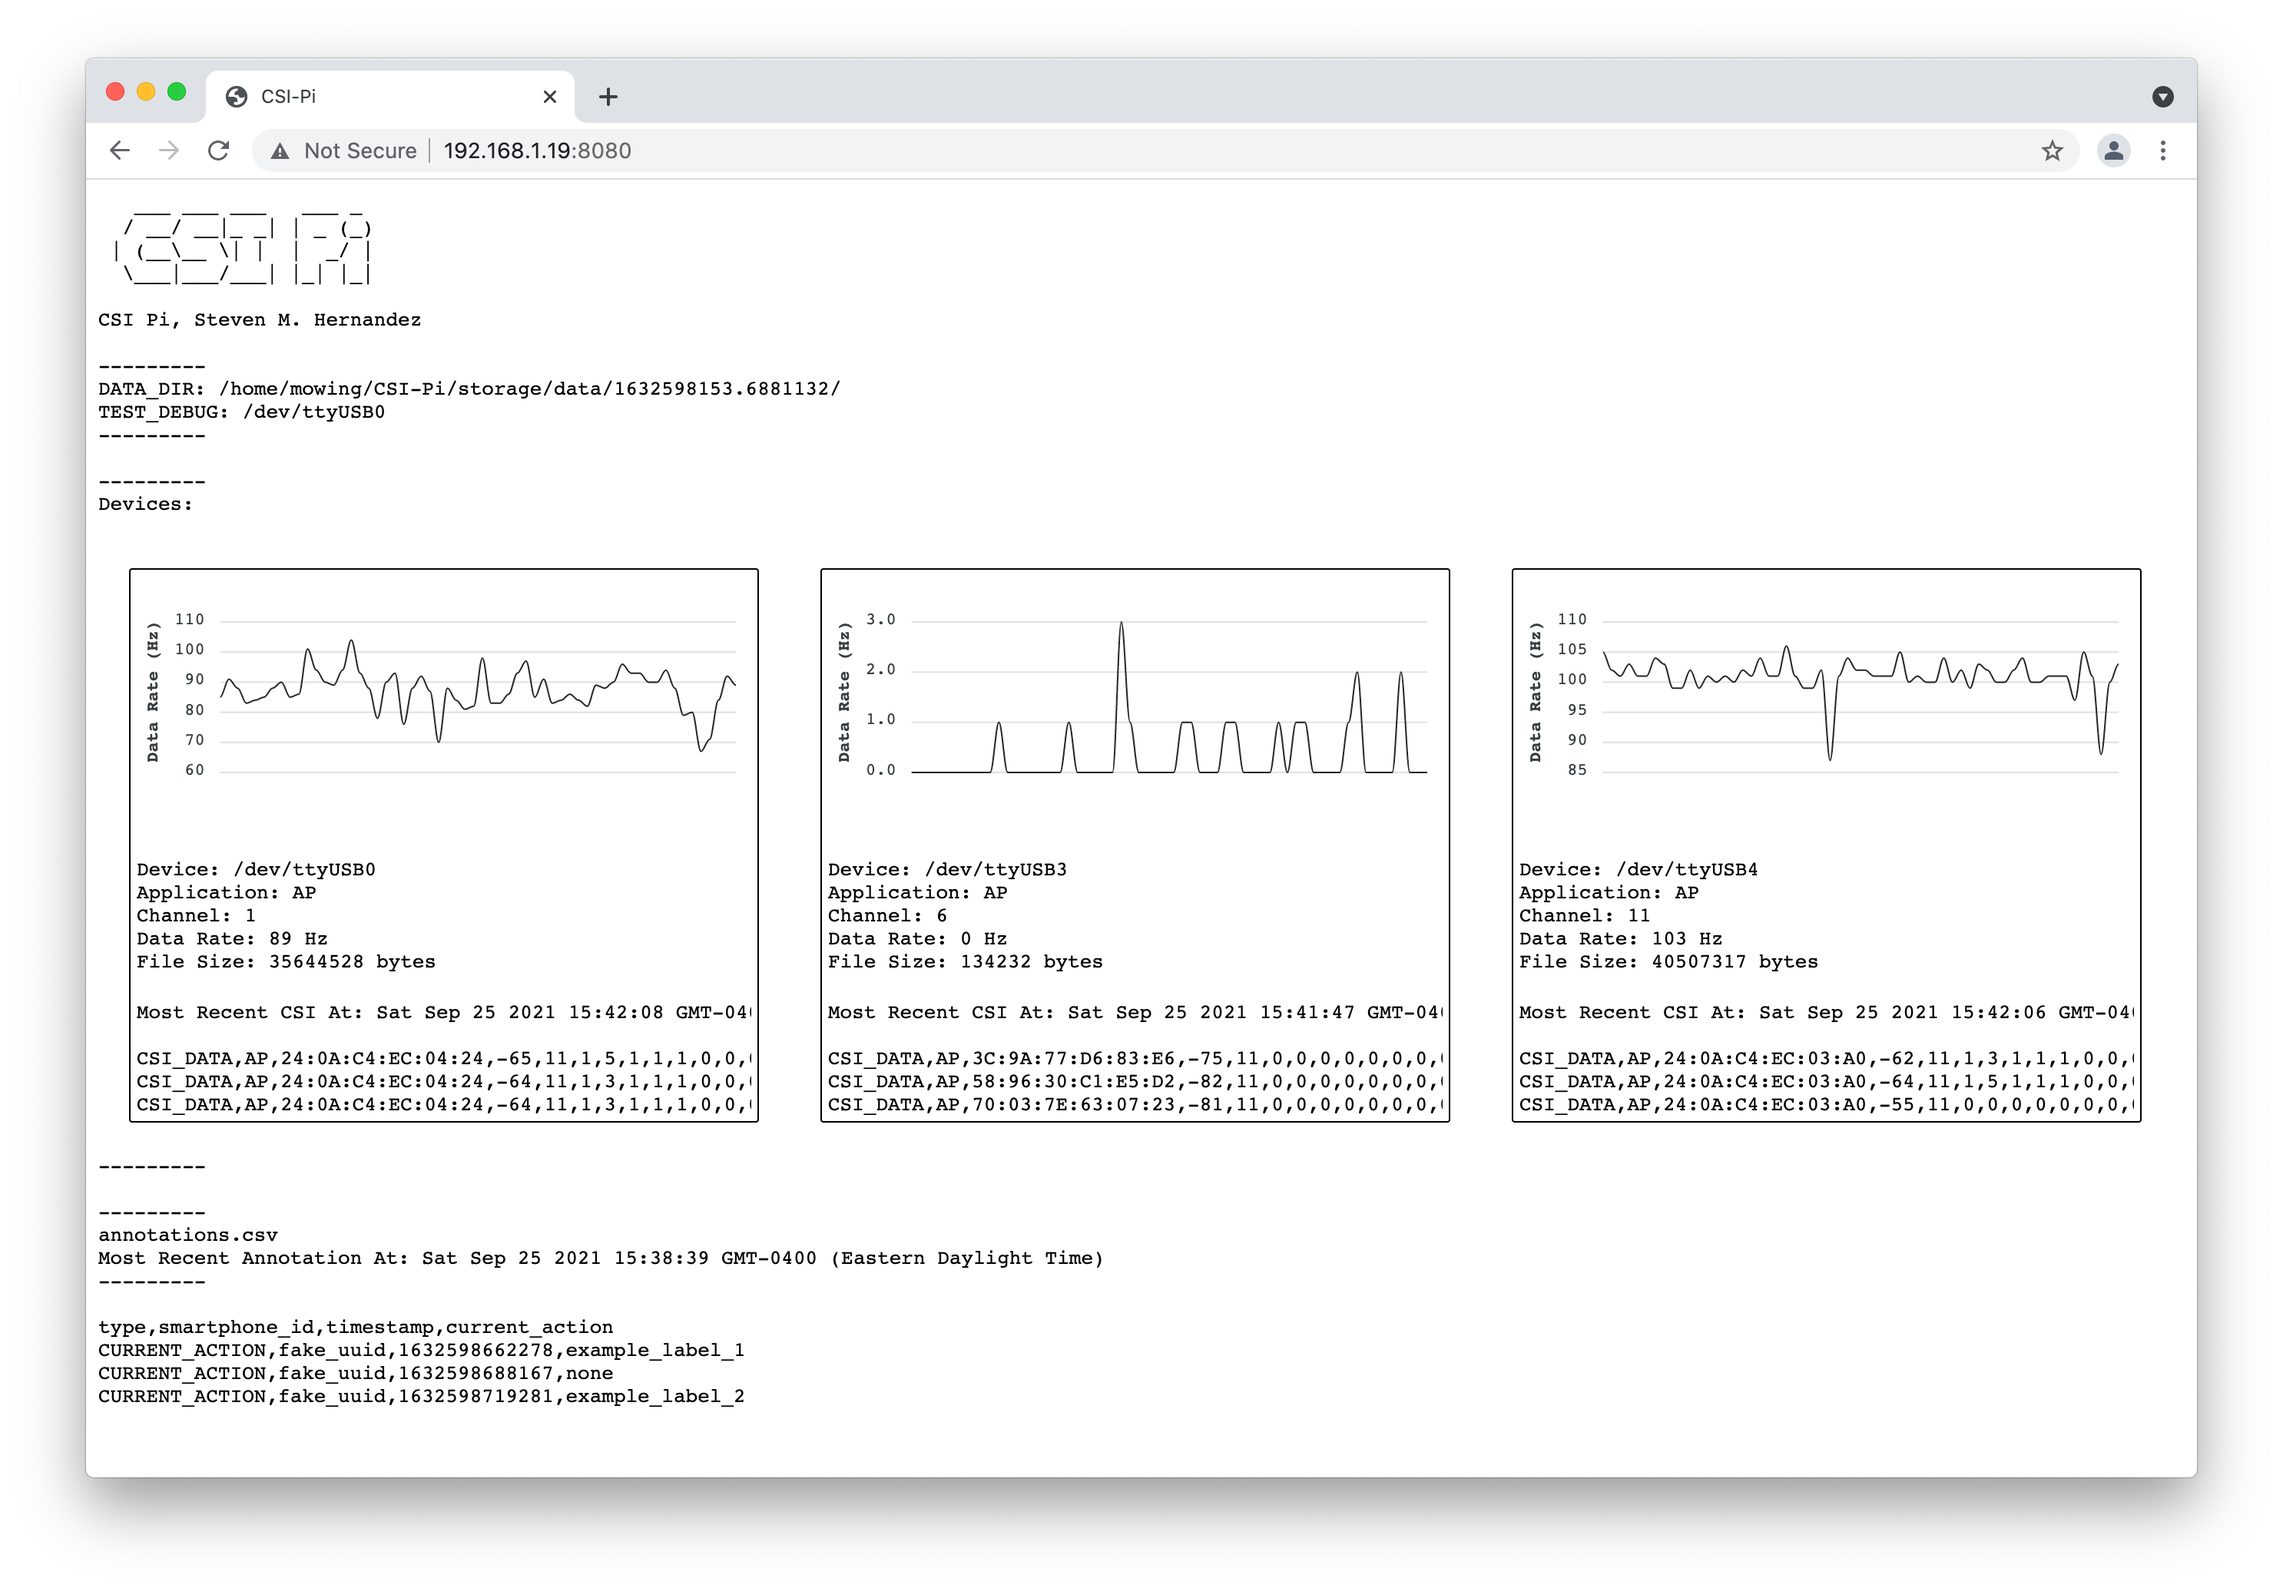
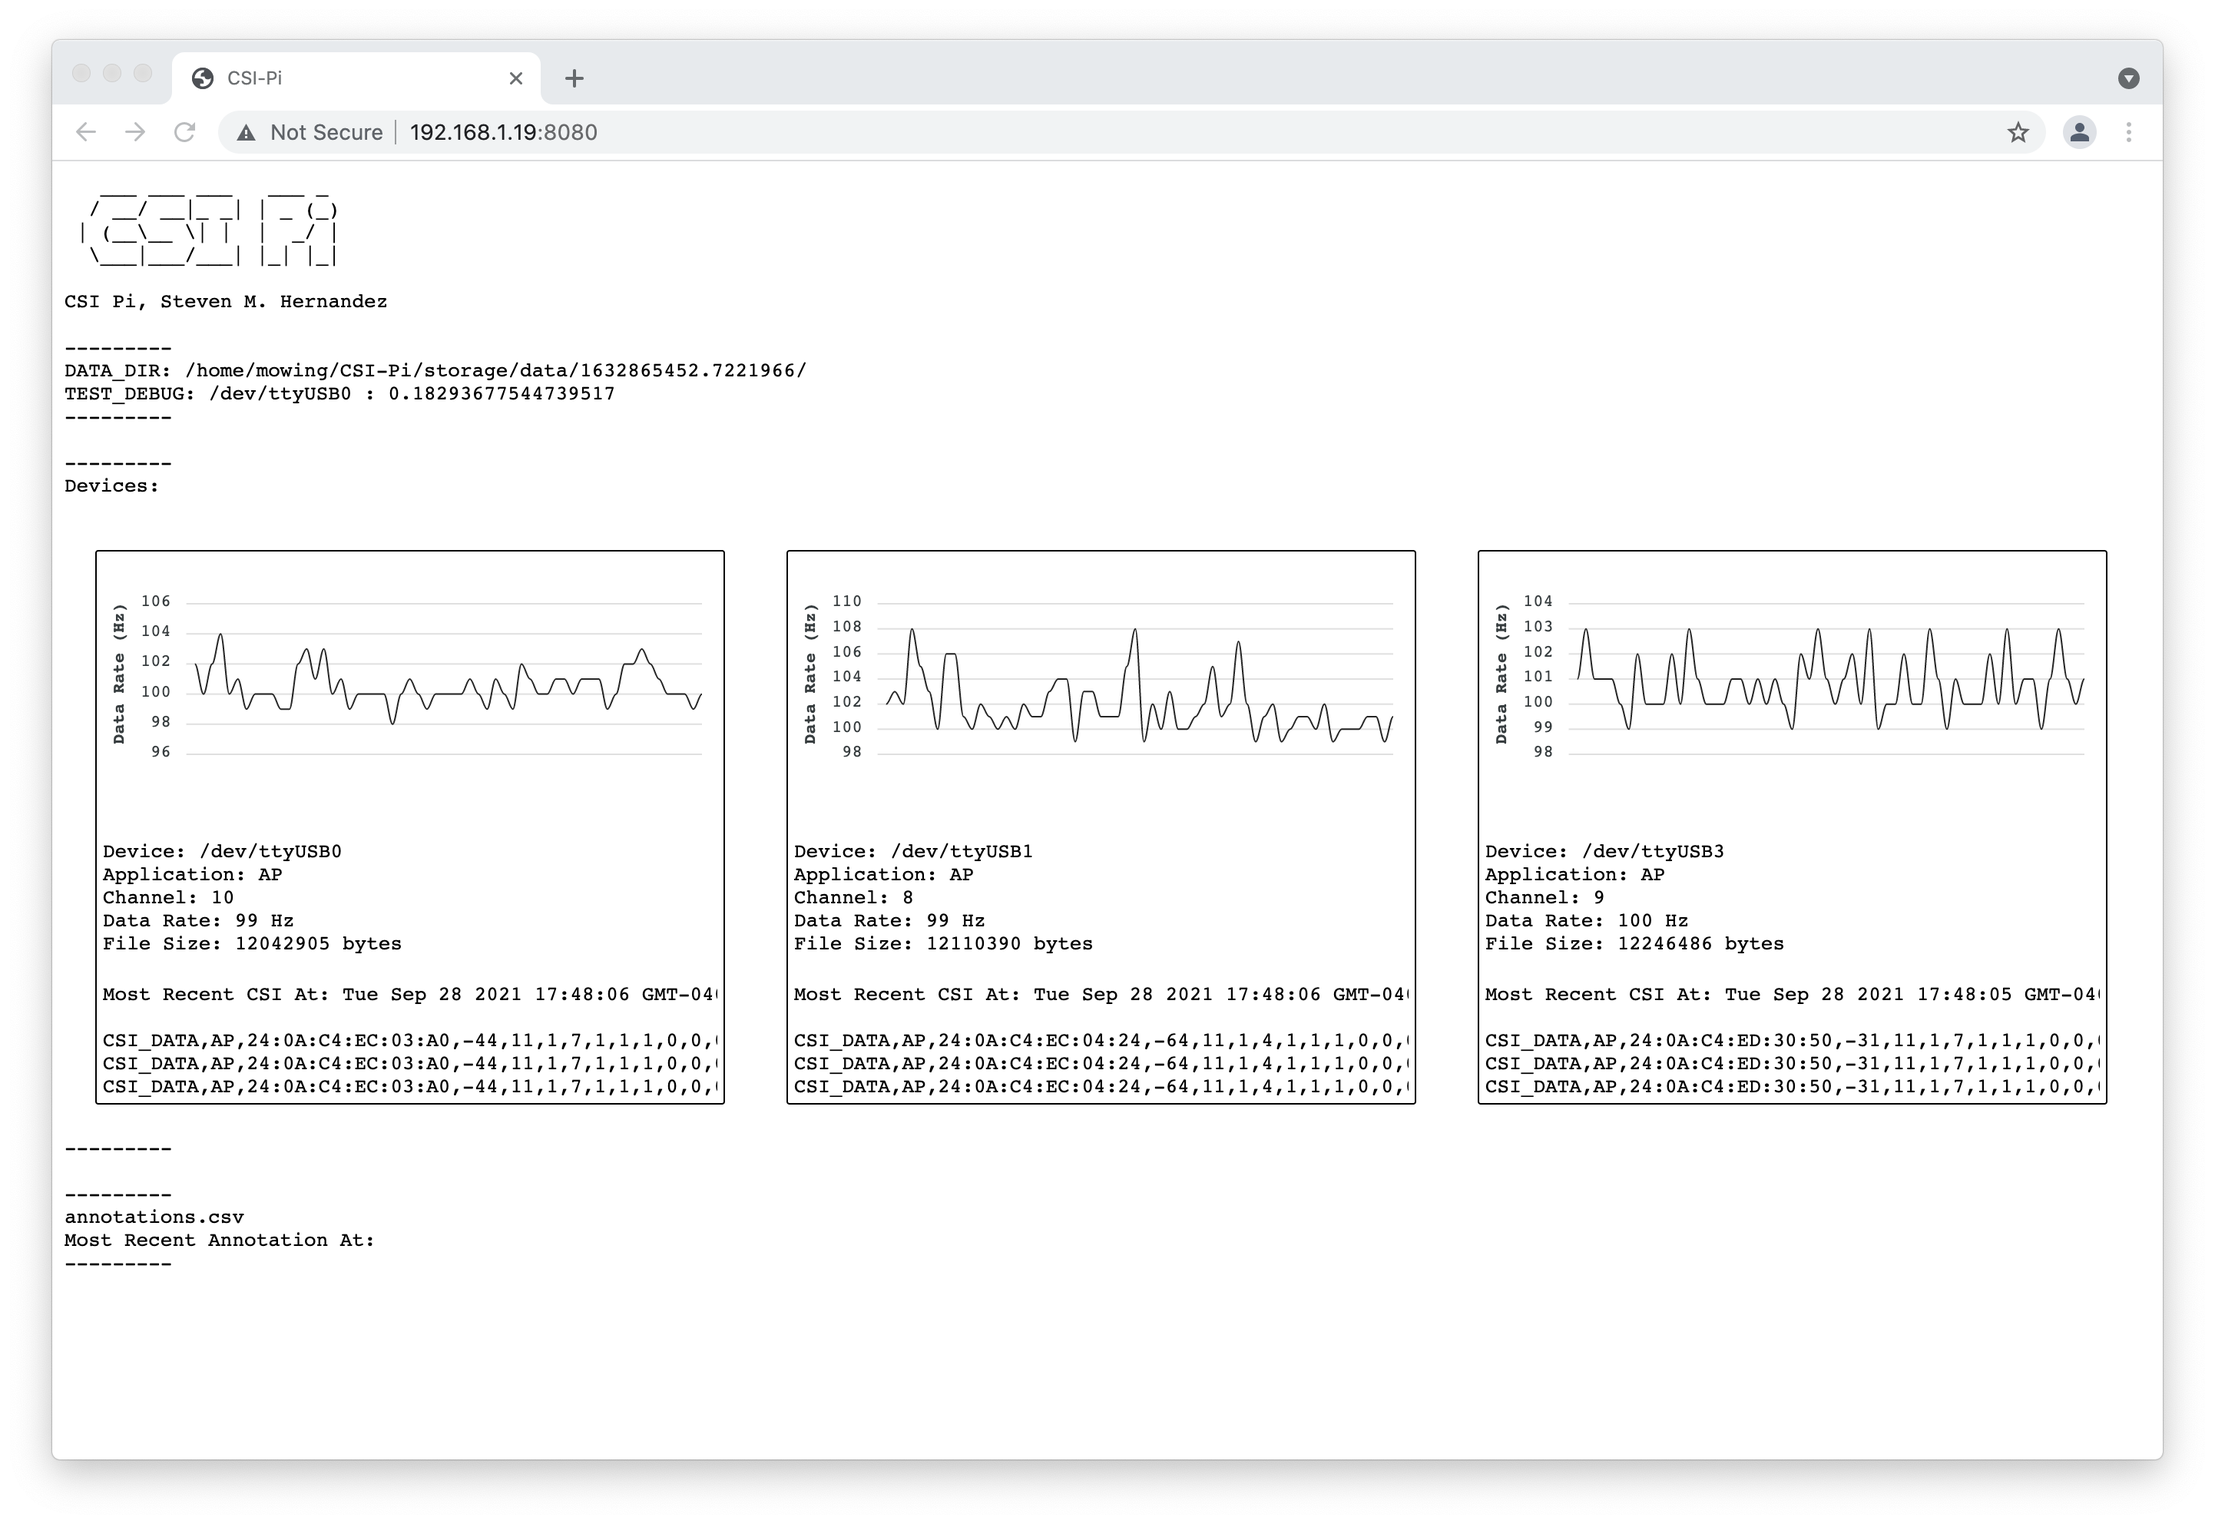
add `usb_save_all.sh` to save all historical data to a usb flash drive, update `csi_pi_web.png` to show all three devices recording at 100Hz (previous screenshot was taken before I fixed a few important bugs)

Changed region(s): [[0.0, 0.0312, 0.9986, 0.9688], [0.2809, 0.7812, 0.4681, 0.8125]]

diff --git a/README.md b/README.md
@@ -122,6 +122,15 @@ Now, every minute, the raspberry pi will check if a USB stick is attached. If th
 - LED ON: USB device is detected.
 - LED BLINKING: Data is being saved to the flash drive. Do not disconnect.
 
+**Alternatively:** If you want to copy ALL historically recorded data files manually, you can run the following:
+
+```
+sh src/shell/usb_save_all.sh $YOUR_UNIQUE_DEVICE_NAME
+```
+
+Where `YOUR_UNIQUE_DEVICE_NAME` is some arbitrary name given to your device.  
+The files will be stored on your flash drive under the directory `/CSI-Pi/$YOUR_UNIQUE_DEVICE_NAME/1630123456.0123456/*`.
+
 ## Hourly Statistics
 
 If you use discord, you can setup a cronjob to automatically send hourly statistics to a discord webhook. 
